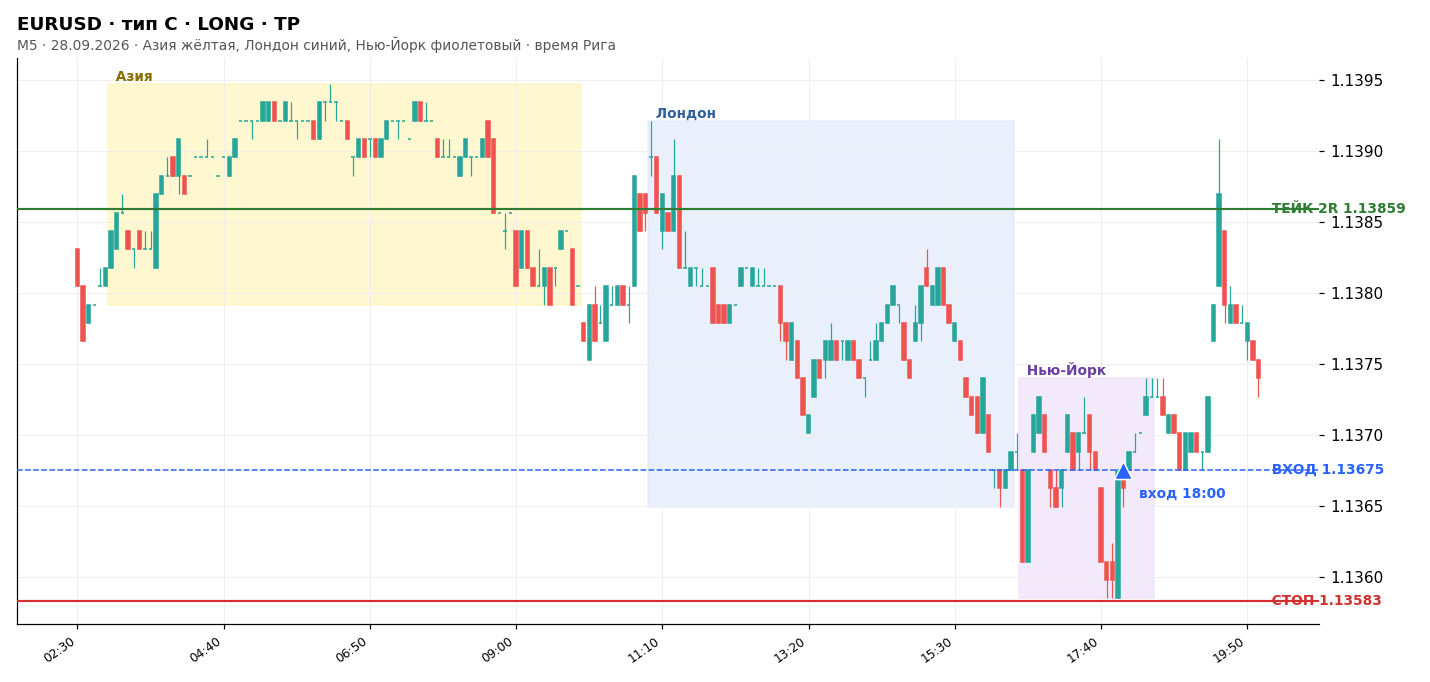
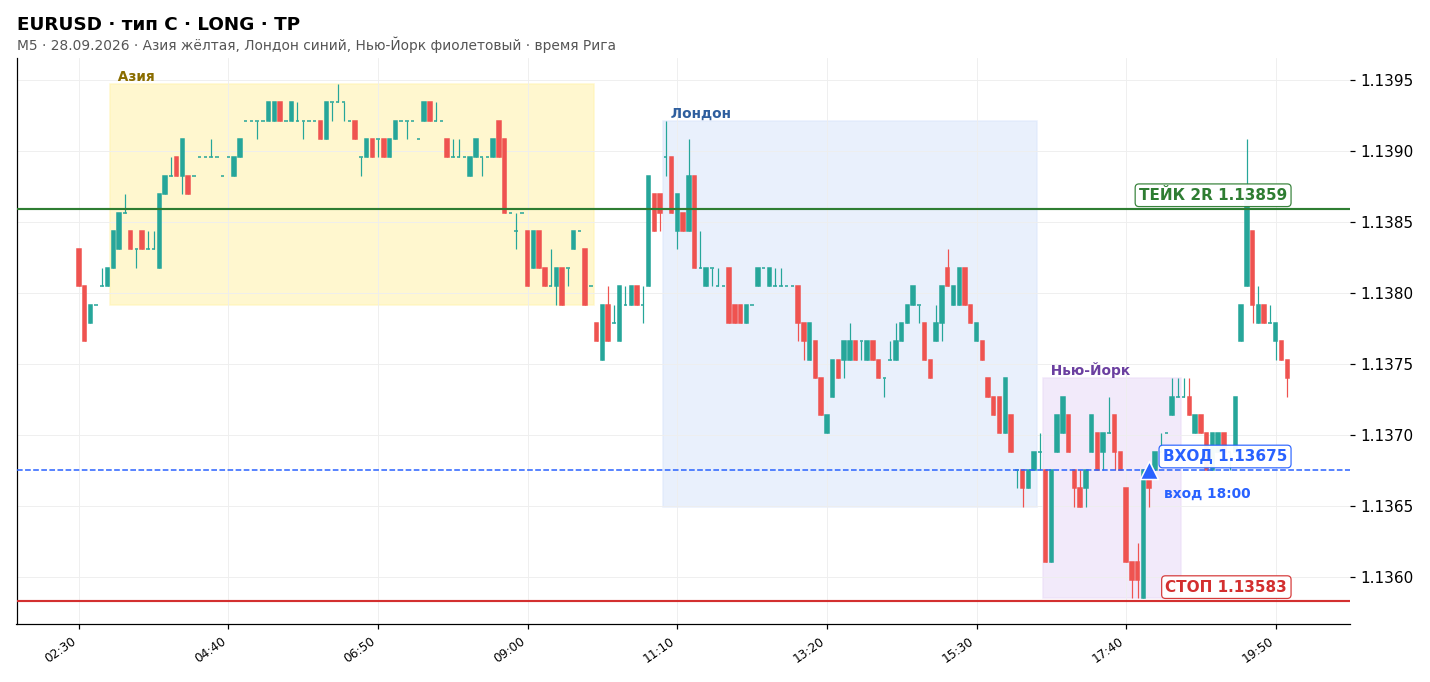
Графики: подписи ВХОД/СТОП/ТЕЙК над линией в рамке

diff --git a/shots.py b/shots.py
@@ -85,7 +85,9 @@ def _xticks(ax, d, off, fmt, n=8):
 def _levels(ax, n, sig, dec):
     for y, c, t in ((sig['entry'], C_ENTRY, 'ВХОД'), (sig['stop'], C_STOP, 'СТОП'), (sig['tp'], C_TP, 'ТЕЙК 2R')):
         ax.axhline(y, color=c, linewidth=1.4 if t != 'ВХОД' else 1.0, linestyle='-' if t != 'ВХОД' else '--', zorder=4)
-        ax.text(n + 0.5, y, f' {t} {y:.{dec}f}', color=c, fontsize=9, fontweight='bold', va='center', clip_on=False)
+        ax.annotate(f'{t} {y:.{dec}f}', (n - 1, y), xytext=(0, 4), textcoords='offset points', ha='right', va='bottom',
+                    color=c, fontsize=10, fontweight='bold', zorder=7,
+                    bbox=dict(boxstyle='round,pad=0.25', fc='white', ec=c, lw=0.8, alpha=0.95))
 
 
 def _style(fig, ax, title, subtitle):
